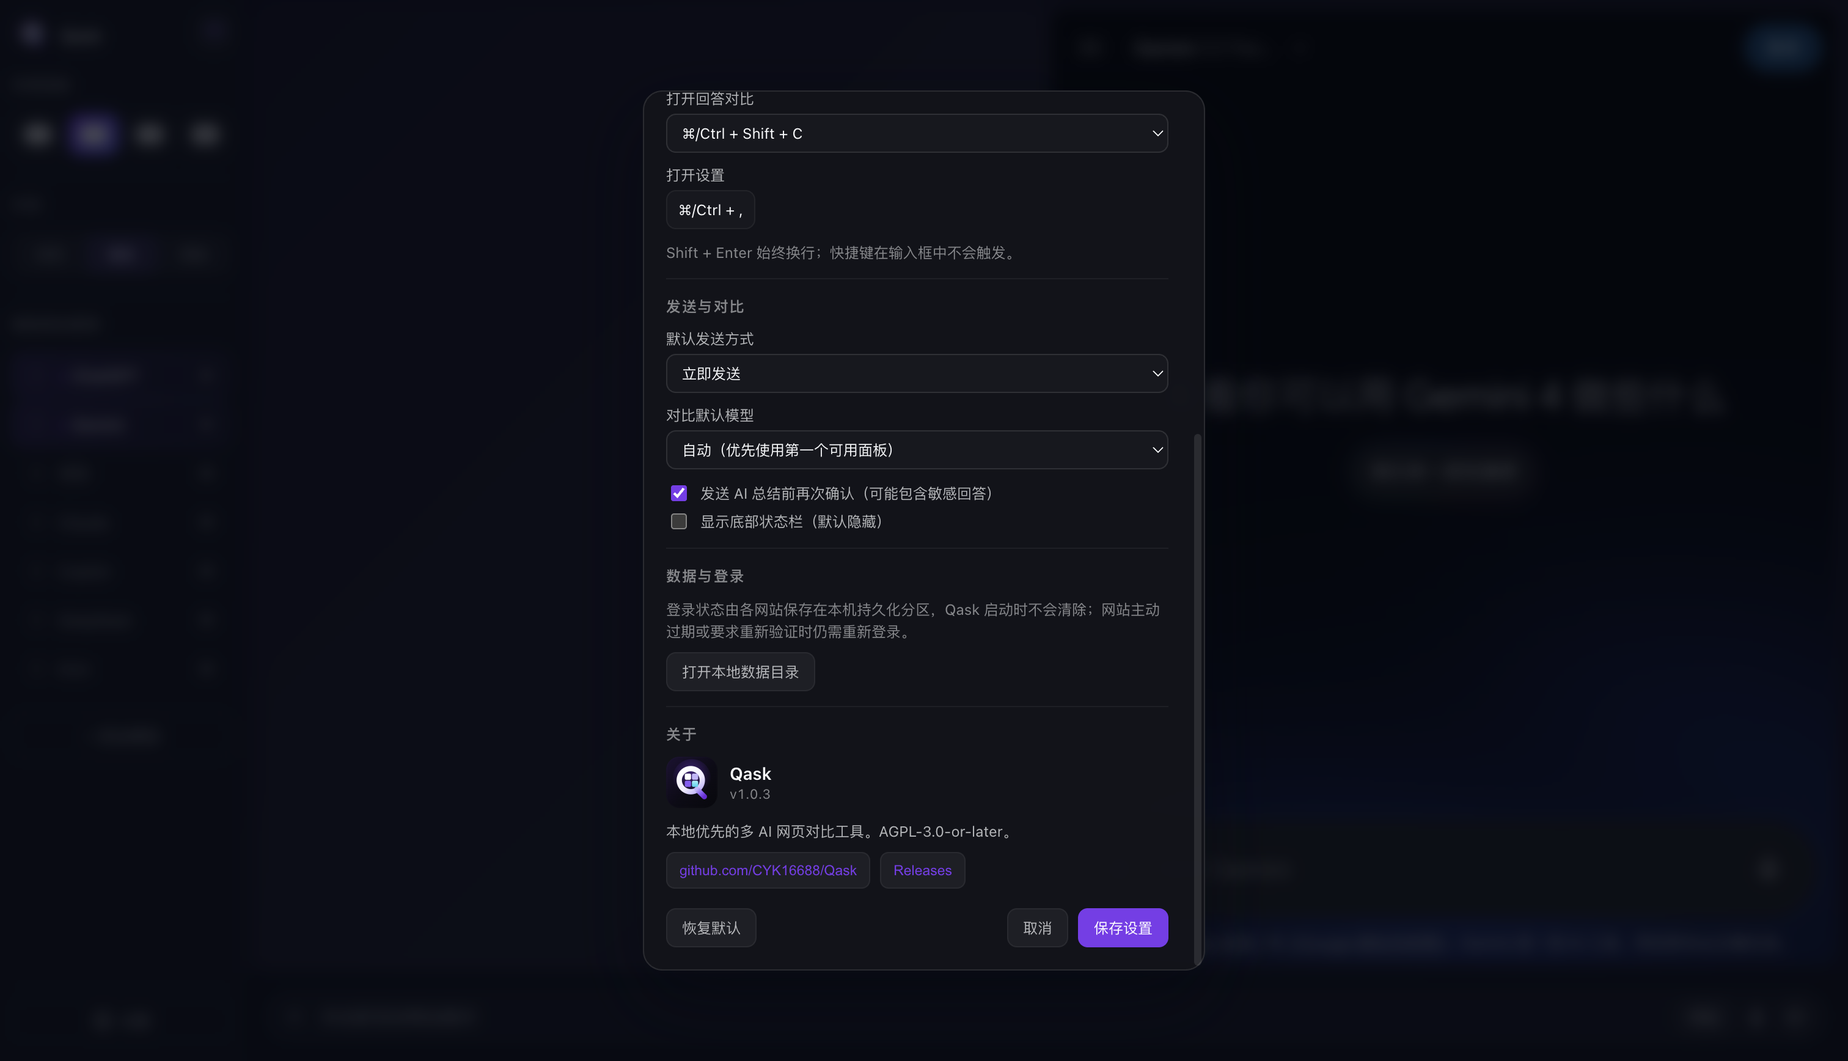
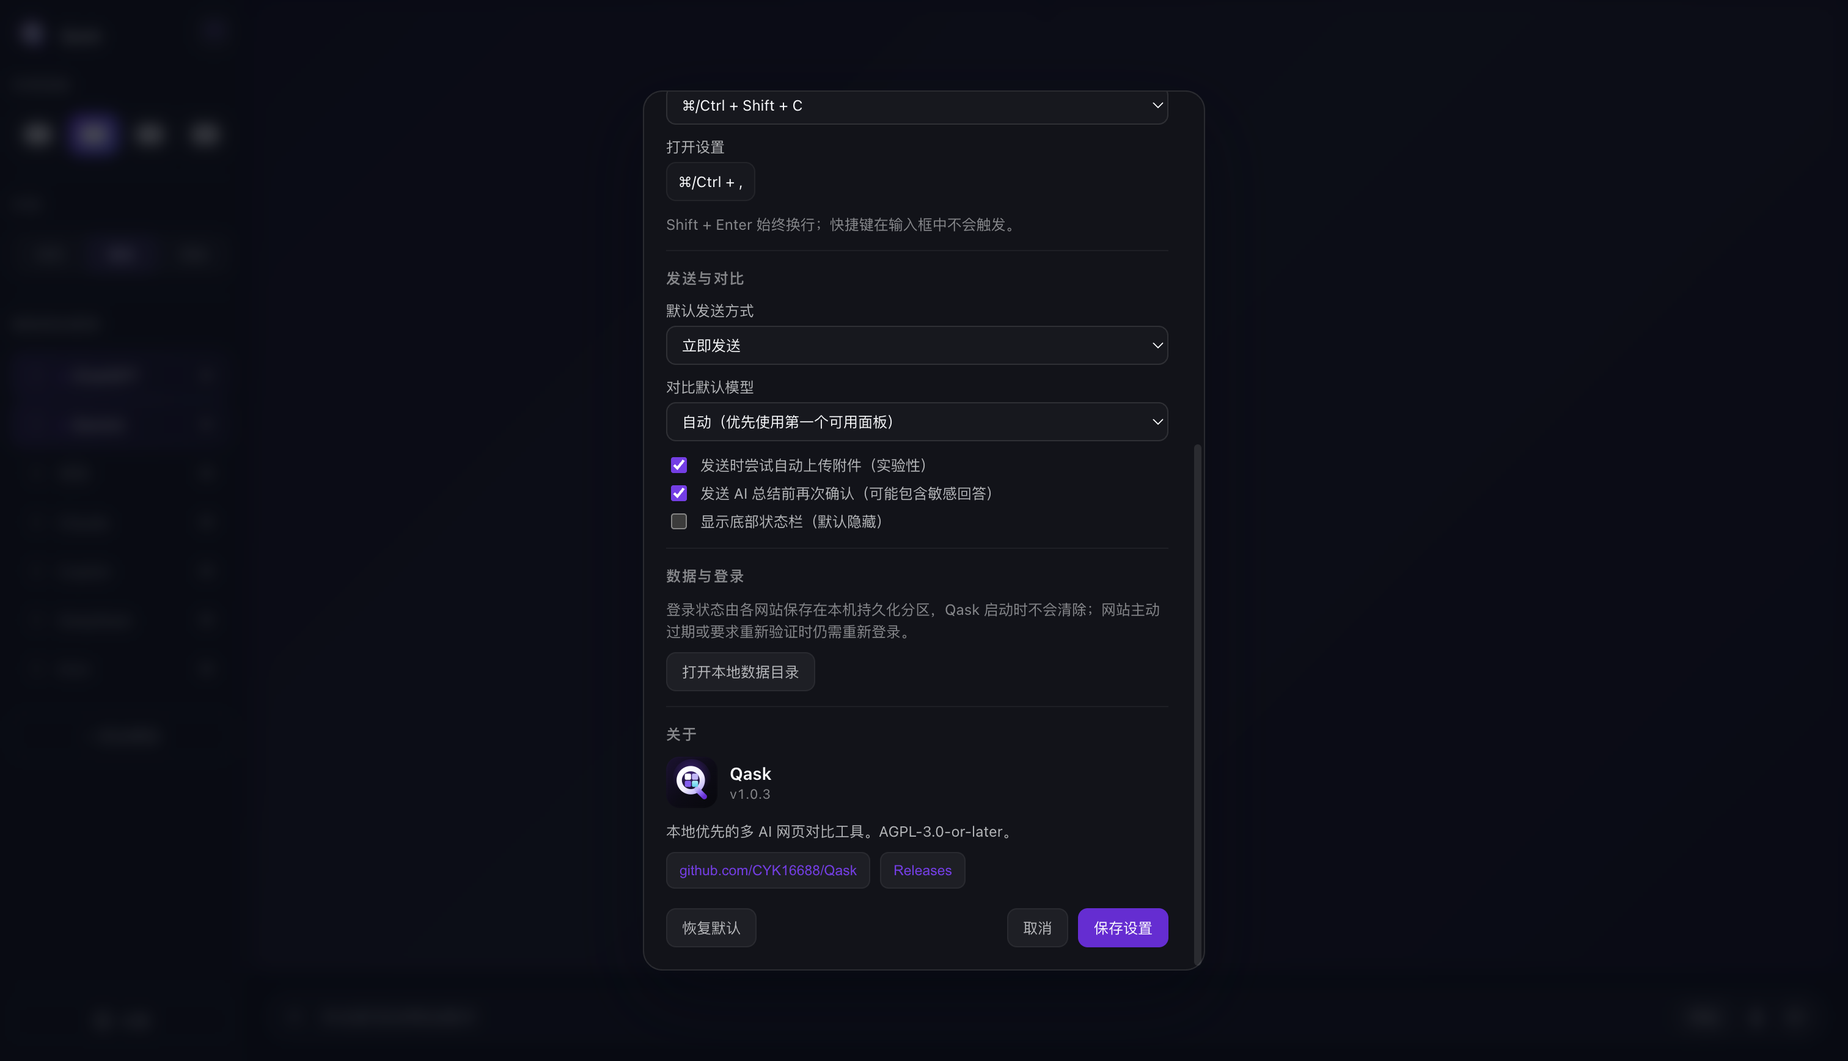
Keep status hidden and add experimental attachment upload

Changed region(s): [[0.3419, 0.2488, 0.4974, 0.4666], [0.373, 0.0933, 0.5284, 0.2488], [0.9325, 0.0311, 0.9947, 0.0622]]

diff --git a/src/renderer.js b/src/renderer.js
@@ -1127,6 +1127,7 @@ const DEFAULT_SETTINGS = Object.freeze({
   sendMode: "send",
   comparisonModelId: "auto",
   confirmSummary: true,
+  autoUploadAttachments: true,
   autoPanelZoom: true,
   alwaysOnTop: false,
   launchAtLogin: false,
@@ -1151,6 +1152,7 @@ function normalizeSettings(raw) {
       ? value.comparisonModelId.trim()
       : DEFAULT_SETTINGS.comparisonModelId,
     confirmSummary: value.confirmSummary !== false,
+    autoUploadAttachments: value.autoUploadAttachments !== false,
     autoPanelZoom: value.autoPanelZoom !== false,
     alwaysOnTop: value.alwaysOnTop === true,
     launchAtLogin: value.launchAtLogin === true,
@@ -1166,7 +1168,6 @@ function normalizeSettings(raw) {
 }
 
 let appSettings = normalizeSettings(loadFromStorage(STORAGE_KEYS.settings, null));
-let transientStatusVisibleUntil = 0;
 
 function persistSettings() {
   saveToStorage(STORAGE_KEYS.settings, appSettings);
@@ -1232,6 +1233,7 @@ const settingsLayoutShortcut = document.getElementById("settingsLayoutShortcut")
 const settingsComparisonShortcut = document.getElementById("settingsComparisonShortcut");
 const settingsSendMode = document.getElementById("settingsSendMode");
 const settingsComparisonModel = document.getElementById("settingsComparisonModel");
+const settingsAutoUpload = document.getElementById("settingsAutoUpload");
 const settingsConfirmSummary = document.getElementById("settingsConfirmSummary");
 const settingsShowStatus = document.getElementById("settingsShowStatus");
 const settingsTheme = document.getElementById("settingsTheme");
@@ -1397,6 +1399,7 @@ const dispatchCoordinator = createDispatchCoordinator();
 async function inspectSelectedAttachments(files) {
   const approved = [];
   const rejected = [];
+  const paths = new Map();
   const inspect = window.qask?.attachments?.inspect;
   for (const file of Array.from(files || [])) {
     try {
@@ -1407,6 +1410,9 @@ async function inspectSelectedAttachments(files) {
       const inspection = await inspect(file);
       if (inspection?.allowed === true) {
         approved.push(file);
+        if (typeof inspection.filePath === "string" && inspection.filePath) {
+          paths.set(file, inspection.filePath);
+        }
       } else {
         rejected.push({ file, reason: inspection?.reason || "local-data-boundary" });
       }
@@ -1414,7 +1420,7 @@ async function inspectSelectedAttachments(files) {
       rejected.push({ file, reason: "local-data-boundary" });
     }
   }
-  return { approved, rejected };
+  return { approved, rejected, paths };
 }
 
 function setRecordingControls(isRecording) {
@@ -1571,7 +1577,7 @@ async function finalizeRecordingSession(session) {
   }
 }
 
-async function addAttachment(file, source = "local") {
+async function addAttachment(file, source = "local", filePath = null) {
   const validation = validateAttachmentMeta(file, Array.from(attachments.values()));
   if (!validation.valid) {
     logStatus(validation.reason, "error");
@@ -1586,6 +1592,7 @@ async function addAttachment(file, source = "local") {
     kind: validation.kind,
     savedFileName: null,
     savedPathLabel: null,
+    filePath: typeof filePath === "string" ? filePath : null,
   };
   attachments.set(id, entry);
   return entry;
@@ -1690,7 +1697,6 @@ function clearStatusMessages() {
   if (broadcastStatus) {
     broadcastStatus.hidden = true;
   }
-  transientStatusVisibleUntil = 0;
 }
 
 function logStatus(message, level = "info") {
@@ -1856,16 +1862,7 @@ function populateSettingsComparisonModels() {
 function applyStatusBarVisibility() {
   if (!broadcastStatus) return;
   const hasMessages = Boolean(broadcastStatusList?.children.length);
-  const transient = Date.now() < transientStatusVisibleUntil;
-  broadcastStatus.hidden = !(appSettings.showStatusBar || transient) || !hasMessages;
-}
-
-function revealStatusBarTemporarily(ms = 12000) {
-  transientStatusVisibleUntil = Math.max(transientStatusVisibleUntil, Date.now() + ms);
-  applyStatusBarVisibility();
-  setTimeout(() => {
-    if (Date.now() >= transientStatusVisibleUntil) applyStatusBarVisibility();
-  }, ms + 50);
+  broadcastStatus.hidden = !appSettings.showStatusBar || !hasMessages;
 }
 
 function openSettingsDialog() {
@@ -1881,6 +1878,7 @@ function openSettingsDialog() {
   if (settingsAutoZoom) settingsAutoZoom.checked = appSettings.autoPanelZoom;
   if (settingsAlwaysOnTop) settingsAlwaysOnTop.checked = appSettings.alwaysOnTop;
   if (settingsLaunchAtLogin) settingsLaunchAtLogin.checked = appSettings.launchAtLogin;
+  if (settingsAutoUpload) settingsAutoUpload.checked = appSettings.autoUploadAttachments;
   if (settingsConfirmSummary) settingsConfirmSummary.checked = appSettings.confirmSummary;
   if (settingsShowStatus) settingsShowStatus.checked = appSettings.showStatusBar;
   if (settingsAboutStatus) settingsAboutStatus.textContent = "";
@@ -1924,6 +1922,7 @@ function resetSettingsForm() {
   if (settingsAutoZoom) settingsAutoZoom.checked = DEFAULT_SETTINGS.autoPanelZoom;
   if (settingsAlwaysOnTop) settingsAlwaysOnTop.checked = DEFAULT_SETTINGS.alwaysOnTop;
   if (settingsLaunchAtLogin) settingsLaunchAtLogin.checked = DEFAULT_SETTINGS.launchAtLogin;
+  if (settingsAutoUpload) settingsAutoUpload.checked = DEFAULT_SETTINGS.autoUploadAttachments;
   if (settingsConfirmSummary) settingsConfirmSummary.checked = DEFAULT_SETTINGS.confirmSummary;
   settingsShowStatus.checked = DEFAULT_SETTINGS.showStatusBar;
   if (settingsComparisonModel) settingsComparisonModel.value = "auto";
@@ -2715,10 +2714,47 @@ async function dispatchMessage(panelState, text, attachmentManifest = [], { fill
   }
 
   const hasAttachments = attachmentManifest.length > 0;
-  // Attachment bytes never enter the guest script. The text itself is still
-  // dispatched, so a mixed text+image turn does not become a silent no-op; the
-  // result carries an explicit manual-upload reminder instead.
-  const attachmentHint = hasAttachments ? "；附件仍在本机，请在各网页手动上传" : "";
+  const attachmentPaths = hasAttachments
+    ? attachmentManifest.map((item) => attachments.get(item.id)?.filePath).filter(Boolean)
+    : [];
+  let autoUploaded = false;
+  if (hasAttachments
+    && appSettings.autoUploadAttachments
+    && attachmentPaths.length === attachmentManifest.length) {
+    let guestId = null;
+    try {
+      guestId = panelState.webview.getWebContentsId?.() ?? null;
+    } catch (error) {
+      guestId = null;
+    }
+    const upload = guestId
+      ? await window.qask?.attachments?.uploadToGuest?.({
+        webContentsId: guestId,
+        filePaths: attachmentPaths,
+      })
+      : null;
+    if (!upload?.ok) {
+      return {
+        panel: config.label,
+        status: BROADCAST_STATUS.error,
+        message: `${config.label} 附件上传失败；请在该网页中手动上传附件后再发送`,
+        hint: "自动上传是实验性功能；网站结构变化或未提供文件输入时会失败。",
+        attachmentUploadFailed: true,
+        attachments: buildManualAttachmentReport(attachmentManifest),
+      };
+    }
+    autoUploaded = true;
+    // Give the site a moment to create its upload preview before sending text.
+    await new Promise((resolve) => setTimeout(resolve, 2500));
+  }
+  // Attachment bytes never enter the guest script. Text can still ride the
+  // normal adapter; the result says whether the files were placed in the site's
+  // file input or still need a manual upload.
+  const attachmentHint = hasAttachments
+    ? (autoUploaded
+      ? "；附件已填入网页上传控件，请确认预览"
+      : "；附件仍在本机，请在各网页手动上传")
+    : "";
   const usingFallback = (config.composeMessageScript === buildGenericScript);
   const script = buildOriginGuardedScript(
     (config.composeMessageScript || buildGenericScript)(text, config.allowAutoSend && !fillOnly ? true : false, []),
@@ -2839,6 +2875,18 @@ function formatBytes(size) {
   return `${value.toFixed(1)} ${units[unitIndex]}`;
 }
 
+function updateAttachmentLocalHint(message = null) {
+  if (!attachmentLocalHint) return;
+  if (attachments.size === 0) {
+    attachmentLocalHint.hidden = true;
+    return;
+  }
+  attachmentLocalHint.hidden = false;
+  attachmentLocalHint.textContent = message || (appSettings.autoUploadAttachments
+    ? "附件会尝试自动填入网页上传控件；若网站不支持，请在该网页中手动上传。"
+    : "附件只保存在本机：发送会发送文字，文件需在各网页中手动上传。");
+}
+
 function renderAttachmentPreview() {
   attachmentPreview.innerHTML = "";
   attachments.forEach((item, id) => {
@@ -2893,9 +2941,7 @@ function renderAttachmentPreview() {
   // Attachments deliberately never clear themselves (a page's DOM cannot prove
   // an upload happened), so give the user one obvious way out of the queue
   // instead of making them remove a broadcast's worth of files one by one.
-  if (attachmentLocalHint) {
-    attachmentLocalHint.hidden = attachments.size === 0;
-  }
+  updateAttachmentLocalHint();
   if (attachments.size > 1) {
     const clearItem = document.createElement("li");
     clearItem.className = "attachment-clear-all";
@@ -3036,11 +3082,11 @@ window.addEventListener("beforeunload", () => {
 async function addAttachmentFiles(files, source = "local") {
   const selected = Array.from(files || []);
   if (!selected.length) return 0;
-  const { approved, rejected } = await inspectSelectedAttachments(selected);
+  const { approved, rejected, paths } = await inspectSelectedAttachments(selected);
   if (rejected.length) {
     logStatus(`为保护本地 GitHub 与凭据数据，已拒绝 ${rejected.length} 个敏感或不可验证附件`, "error");
   }
-  const entries = await Promise.all(approved.map((file) => addAttachment(file, source)));
+  const entries = await Promise.all(approved.map((file) => addAttachment(file, source, paths.get(file))));
   const added = entries.filter(Boolean);
   if (added.length) {
     renderAttachmentPreview();
@@ -4579,6 +4625,7 @@ if (settingsForm) {
       sendMode: settingsSendMode?.value,
       comparisonModelId: settingsComparisonModel?.value,
       confirmSummary: Boolean(settingsConfirmSummary?.checked),
+      autoUploadAttachments: Boolean(settingsAutoUpload?.checked),
       autoPanelZoom: Boolean(settingsAutoZoom?.checked),
       alwaysOnTop: Boolean(settingsAlwaysOnTop?.checked),
       launchAtLogin: Boolean(settingsLaunchAtLogin?.checked),
@@ -4595,6 +4642,7 @@ if (settingsForm) {
     applyTheme({ persist: true });
     applyWindowPreferences();
     syncAutomaticPanelZoom();
+    renderAttachmentPreview();
     applyStatusBarVisibility();
     closeSettingsDialog();
     logStatus("设置已保存", "success");
@@ -4623,13 +4671,13 @@ broadcastForm.addEventListener("submit", async (event) => {
     return;
   }
   if (!text && attachments.size > 0) {
-    revealStatusBarTemporarily();
-    logStatus("附件只保存在本机，不会自动上传；请输入文字后发送，文件请在网页中手动上传。", "warning");
+    updateAttachmentLocalHint("请先输入文字再发送；附件会尝试自动填入网页上传控件。");
+    broadcastInput.focus();
+    logStatus("附件需要配合文字发送；请输入文字后再点发送。", "warning");
     return;
   }
   if (sendModeValue === "queue") {
     if (attachments.size > 0) {
-      revealStatusBarTemporarily();
       logStatus("排队发送暂不支持附件；请移除附件或改用立即发送", "error");
       return;
     }
@@ -4659,7 +4707,6 @@ broadcastForm.addEventListener("submit", async (event) => {
   comparisonLastPrompt = text;
   isBroadcasting = true;
   syncComposerState();
-  if (attachments.size > 0) revealStatusBarTemporarily();
   // 显示发送状态
   logStatus(`正在发送消息到 ${activePanelCount} 个模型...`, "info");
 
@@ -4692,8 +4739,16 @@ broadcastForm.addEventListener("submit", async (event) => {
     logBroadcastSummary(results);
 
     if (attachmentPayload.length > 0) {
-      revealStatusBarTemporarily();
-      logStatus("附件仍保留在本地，请在每个网页自己的上传界面中选择、确认并手动上传。", "warning");
+      const uploadFailures = results.filter((entry) => entry.attachmentUploadFailed === true);
+      if (uploadFailures.length) {
+        updateAttachmentLocalHint("有附件上传失败；请在这些网页中手动上传后再试。");
+      }
+      logStatus(
+        uploadFailures.length
+          ? "部分附件上传失败；请在各网页自己的上传界面中选择、确认并手动上传。"
+          : "附件已尝试填入网页上传控件；请确认各网页的附件预览后再发送。",
+        uploadFailures.length ? "warning" : "info",
+      );
     }
 
     if (shouldClearBroadcastDraft(draftSnapshot, {

diff --git a/main.js b/main.js
@@ -1,4 +1,4 @@
-const { app, BrowserWindow, ipcMain, globalShortcut, session, systemPreferences, shell, nativeTheme } = require("electron");
+const { app, BrowserWindow, ipcMain, globalShortcut, session, systemPreferences, shell, nativeTheme, webContents } = require("electron");
 const path = require("node:path");
 const fs = require("node:fs");
 const { pathToFileURL } = require("node:url");
@@ -587,7 +587,62 @@ ipcMain.handle("attachments:inspect", (event, filePath) => {
   if (!isTrustedShellSender(event)) {
     return { allowed: false, reason: "untrusted-sender" };
   }
-  return inspectShellAttachmentPath(filePath);
+  const inspection = inspectShellAttachmentPath(filePath);
+  if (!inspection.allowed) return inspection;
+  try {
+    return { ...inspection, filePath: fs.realpathSync(filePath) };
+  } catch (error) {
+    return { allowed: false, reason: "unreadable-path" };
+  }
+});
+
+ipcMain.handle("attachments:upload-to-guest", async (event, payload) => {
+  if (!isTrustedShellSender(event) || !mainWindow) {
+    return { ok: false, reason: "untrusted-sender" };
+  }
+  const guest = webContents.fromId(Number(payload?.webContentsId));
+  if (!guest || guest.isDestroyed()
+    || guest.getType() !== "webview"
+    || guest.hostWebContents !== mainWindow.webContents
+    || !isHttpsUrl(guest.getURL())) {
+    return { ok: false, reason: "untrusted-guest" };
+  }
+  const requested = Array.isArray(payload?.filePaths) ? payload.filePaths.slice(0, 5) : [];
+  const files = [];
+  for (const candidate of requested) {
+    const inspection = inspectShellAttachmentPath(candidate);
+    if (inspection.allowed) {
+      try { files.push(fs.realpathSync(candidate)); } catch (error) { /* skip unreadable */ }
+    }
+  }
+  if (!files.length) return { ok: false, reason: "no-valid-files" };
+
+  let attachedByUs = false;
+  try {
+    if (!guest.debugger.isAttached()) {
+      guest.debugger.attach("1.3");
+      attachedByUs = true;
+    }
+    await guest.debugger.sendCommand("DOM.enable").catch(() => {});
+    const { root } = await guest.debugger.sendCommand("DOM.getDocument", { depth: -1 });
+    const { nodeIds = [] } = await guest.debugger.sendCommand("DOM.querySelectorAll", {
+      nodeId: root.nodeId,
+      selector: 'input[type="file"]',
+    });
+    for (const nodeId of nodeIds) {
+      try {
+        await guest.debugger.sendCommand("DOM.setFileInputFiles", { files, nodeId });
+        return { ok: true, fileCount: files.length, inputCount: nodeIds.length };
+      } catch (error) {
+        // Try the next file input; some pages create multiple hidden inputs.
+      }
+    }
+    return { ok: false, reason: "no-file-input", inputCount: nodeIds.length };
+  } catch (error) {
+    return { ok: false, reason: "debugger-failed" };
+  } finally {
+    if (attachedByUs && guest.debugger.isAttached()) guest.debugger.detach();
+  }
 });
 ipcMain.handle("attachments:persist", persistShellAttachment);
 ipcMain.handle("attachments:reveal", revealShellAttachment);

diff --git a/src/index.html b/src/index.html
@@ -261,6 +261,10 @@
             <select id="settingsComparisonModel"></select>
           </label>
           <label class="settings-check">
+            <input id="settingsAutoUpload" type="checkbox">
+            <span>发送时尝试自动上传附件（实验性）</span>
+          </label>
+          <label class="settings-check">
             <input id="settingsConfirmSummary" type="checkbox">
             <span>发送 AI 总结前再次确认（可能包含敏感回答）</span>
           </label>

diff --git a/preload.js b/preload.js
@@ -31,6 +31,7 @@ contextBridge.exposeInMainWorld("qask", {
     },
     persist: (payload) => ipcRenderer.invoke("attachments:persist", payload),
     reveal: (fileName) => ipcRenderer.invoke("attachments:reveal", fileName),
+    uploadToGuest: (payload) => ipcRenderer.invoke("attachments:upload-to-guest", payload),
   },
   diagnostics: {
     layoutLifecycleTraceEnabled: process.env.QASK_TRACE_LAYOUT_LIFECYCLE === "1",

diff --git a/README.md b/README.md
@@ -31,7 +31,7 @@ Qask is **not** a multi-provider API client. It does not use model APIs or a Qas
 - **Flexible workspace** — switch between focused, side-by-side, three-column, and 2×2 layouts.
 - **Theme** — follow the macOS appearance or pin the Qask shell to dark/light; provider sites that support `prefers-color-scheme` follow the same preference.
 - **Send modes and queue** — hover the send button to choose immediate send, queue, or fill-only. A queued prompt first waits for any in-flight answers to finish, then sends and advances automatically once every panel has finished.
-- **Settings** — configure theme, panel auto-zoom, always-on-top, launch-at-login, shortcuts, default send mode, default comparison model, AI-summary confirmation, status transcript visibility, and local-data access; the About section links the version, AGPL license, and the open-source repository.
+- **Settings** — configure theme, panel auto-zoom, always-on-top, launch-at-login, shortcuts, default send mode, default comparison model, attachment auto-upload, AI-summary confirmation, status transcript visibility, and local-data access; the About section links the version, AGPL license, and the open-source repository.
 - **Local by design** — Qask has no Git, GitHub, repository scanning, cloud sync, or provider API integration.
 - **Explicit attachment handling** — images, audio, PDFs, and microphone recordings stay local; drag files onto the composer or pick them with `+`, review the tray above the text field, then choose them in each provider's visible upload UI. Recordings and pasted images are saved to `~/Pictures/Qask Attachments/`.
 
@@ -229,12 +229,12 @@ Qask 是一个本地运行的 macOS / Windows / Electron 桌面工具，专注**
 - 支持单、双、三、四面板布局，`Alt + ← / →` 可在 Qask 界面聚焦时快速切换（面板内聚焦时请用侧栏按钮）。
 - 外观主题支持“跟随系统 / 暗色 / 亮色”，并同步给支持深色模式的第三方网页。
 - 发送按钮支持“立即发送 / 排队发送 / 仅填入”三种方式；排队消息会先等当前回答结束，再在所有面板完成后自动发送下一条。
-- 设置中可配置主题、面板自动缩放、窗口置顶、登录时启动、快捷键、默认发送方式、对比默认模型、AI 总结确认、底部状态栏（默认隐藏）和本地数据目录；「关于」里显示版本、AGPL 许可与开源仓库地址。
+- 设置中可配置主题、面板自动缩放、窗口置顶、登录时启动、快捷键、默认发送方式、对比默认模型、附件自动上传、AI 总结确认、底部状态栏（默认隐藏）和本地数据目录；「关于」里显示版本、AGPL 许可与开源仓库地址。
 - 内置 ChatGPT、Gemini、豆包（Doubao）、Claude、Copilot、DeepSeek、Kimi 网页入口；可拖动排序，当前布局使用前 *N* 个网站。
 - 可添加**自定义 HTTPS 网页模型**；默认只填入文字，只有对精确 origin 明确授权后才会尝试自动发送。
 - 每个网站拥有独立持久化 Electron 会话分区，登录状态相互隔离，通常可在本机重启后保留。
 - 统一输入框可向活动面板并发尝试填入/发送文本；`Enter` 发送，`Shift + Enter` 换行。
-- 支持本地图片、音频或 PDF 队列和显式麦克风本地录音；附件不会由 Qask 自动传给第三方网页，带附件时仍可发送文字，但文件必须在各网站可见上传界面中自行确认和上传。
+- 支持本地图片、音频或 PDF 队列和显式麦克风本地录音；默认尝试把附件设置到各网站的文件上传控件，失败或关闭设置时仍可发送文字，并在各网站可见上传界面中手动上传。
 - 支持本地截图，保存至 `~/Pictures/Qask Screenshots/`。
 - 输入框右侧“对比”会读取当前各面板可见的最新回答，并排显示、同步滚动；可随时刷新，也可选择一个模型用 AI 总结差异。回答只保存在内存中，Qask 不写入本地文件。
 

diff --git a/PRIVACY.md b/PRIVACY.md
@@ -73,6 +73,11 @@ accept that provider's terms and privacy policy.
 - Provider login cookies and site storage live in the per-site persistent
   Electron partitions under Qask's userData directory. Qask does not clear them
   on startup; websites can still expire or invalidate their own sessions.
+- When "attempt automatic attachment upload" is enabled, Qask passes the paths
+  of files you selected to each provider's own file input via Electron's
+  debugging protocol. The file contents are then uploaded by that website under
+  its normal upload flow. Qask does not read file bytes into its injected page
+  scripts. Disable the setting to keep attachments local and upload manually.
 - The attachment queue and microphone status are not intentionally persisted in
   Qask localStorage. Recordings and pasted images are stored as ordinary files
   in `~/Pictures/Qask Attachments/`; Qask does not index or upload them.
